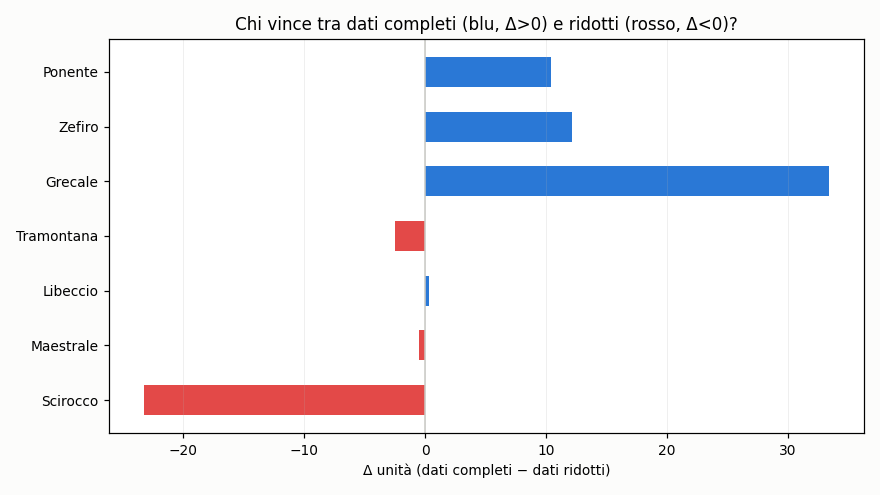
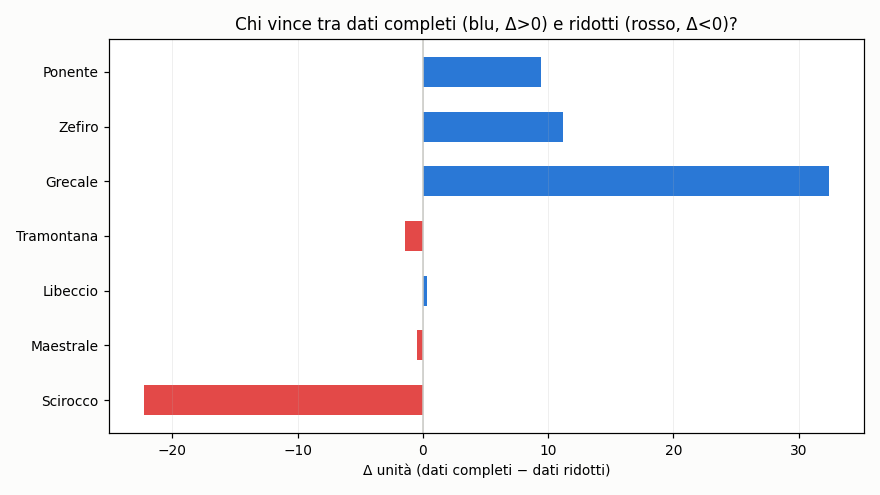
aggiornamento 2026-07-25 15:31 UTC

diff --git a/README.md b/README.md
@@ -37,9 +37,9 @@ scala in unità). Non indichiamo quale.
 
 ## Grafici
 
-![Coppie: dati completi vs ridotti](https://raw.githubusercontent.com/Kitem19/ippica-track-record/main/charts/equity_pairs.png?v=03973aac)
+![Coppie: dati completi vs ridotti](https://raw.githubusercontent.com/Kitem19/ippica-track-record/main/charts/equity_pairs.png?v=b0dbc08a)
 
-![Delta per coppia](https://raw.githubusercontent.com/Kitem19/ippica-track-record/main/charts/coppie_delta.png?v=41a3e749)
+![Delta per coppia](https://raw.githubusercontent.com/Kitem19/ippica-track-record/main/charts/coppie_delta.png?v=86244ad3)
 
 ### Come leggere i grafici
 
@@ -56,34 +56,34 @@ scala in unità). Non indichiamo quale.
 
 _Poche giornate: numeri ancora rumorosi, si conclude a fine fase (31/7)._
 
-- **Scirocco**: dati ridotti avanti di 23,3u — qui gli extra non aiutano
+- **Scirocco**: dati ridotti avanti di 22,3u — qui gli extra non aiutano
 - **Maestrale**: in sostanziale pareggio — troppo presto per dire
 - **Libeccio**: in sostanziale pareggio — troppo presto per dire
-- **Tramontana**: dati ridotti avanti di 2,5u — qui gli extra non aiutano
-- **Grecale**: dati completi avanti di 33,4u
-- **Zefiro**: dati completi avanti di 12,2u
-- **Ponente**: dati completi avanti di 10,4u
+- **Tramontana**: in sostanziale pareggio — troppo presto per dire
+- **Grecale**: dati completi avanti di 32,4u
+- **Zefiro**: dati completi avanti di 11,2u
+- **Ponente**: dati completi avanti di 9,4u
 
 ## Classifica (conteggio ufficiale)
 
 | Sistema | Cassa (u) | P/L (u) | Selezioni | Escluse | Stato |
 |---|---|---|---|---|---|
-| Grecale | 33,2 | +13,2 | 290 | 4 | 🟢 |
-| Scirocco-B | 23,2 | +3,2 | 217 | 0 | 🟢 |
-| Zefiro | 11,7 | -8,3 | 252 | 5 | 🟢 |
-| Ponente | 9,5 | -10,5 | 201 | 28 | 🟢 |
-| Tramontana-B | 2,2 | -17,8 | 322 | 0 | 🟢 |
+| Grecale | 32,2 | +12,2 | 291 | 4 | 🟢 |
+| Scirocco-B | 22,2 | +2,2 | 218 | 0 | 🟢 |
+| Zefiro | 10,7 | -9,3 | 253 | 5 | 🟢 |
+| Ponente | 8,5 | -11,5 | 202 | 28 | 🟢 |
+| Tramontana-B | 1,2 | -18,8 | 323 | 0 | ⏸ |
 | Maestrale-B | 0,0 | -20,0 | 100 | 222 | 🛑 |
-| Scirocco | 0,0 | -20,1 | 80 | 231 | 🛑 |
+| Scirocco | 0,0 | -20,1 | 80 | 232 | 🛑 |
 | Grecale-B | 0,0 | -20,2 | 137 | 162 | 🛑 |
-| Tramontana | 0,0 | -20,3 | 45 | 293 | 🛑 |
-| Zefiro-B | 0,0 | -20,5 | 143 | 63 | 🛑 |
-| Maestrale | 0,0 | -20,5 | 104 | 242 | 🛑 |
-| Libeccio | 0,0 | -20,6 | 181 | 150 | 🛑 |
-| Libeccio-B | 0,0 | -20,9 | 119 | 166 | 🛑 |
-| Ponente-B | 0,0 | -21,0 | 63 | 80 | 🛑 |
+| Tramontana | 0,0 | -20,3 | 45 | 294 | 🛑 |
+| Zefiro-B | 0,0 | -20,5 | 143 | 64 | 🛑 |
+| Maestrale | 0,0 | -20,5 | 104 | 243 | 🛑 |
+| Libeccio | 0,0 | -20,6 | 181 | 151 | 🛑 |
+| Libeccio-B | 0,0 | -20,9 | 119 | 167 | 🛑 |
+| Ponente-B | 0,0 | -21,0 | 63 | 81 | 🛑 |
 
-_Aggiornato: 25/07 17:26_
+_Aggiornato: 25/07 17:31_
 ---
 *Nessuna delle informazioni qui pubblicate costituisce consiglio di gioco.
 Il gioco può causare dipendenza — 18+.*
